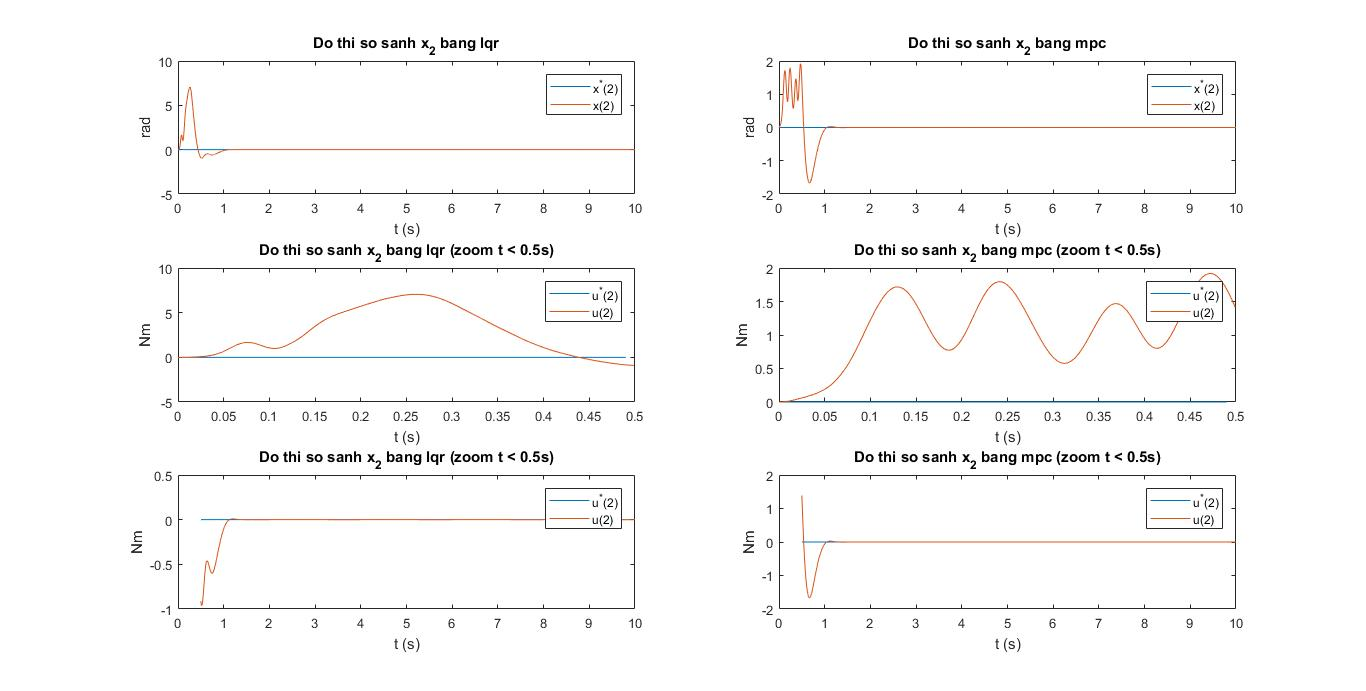
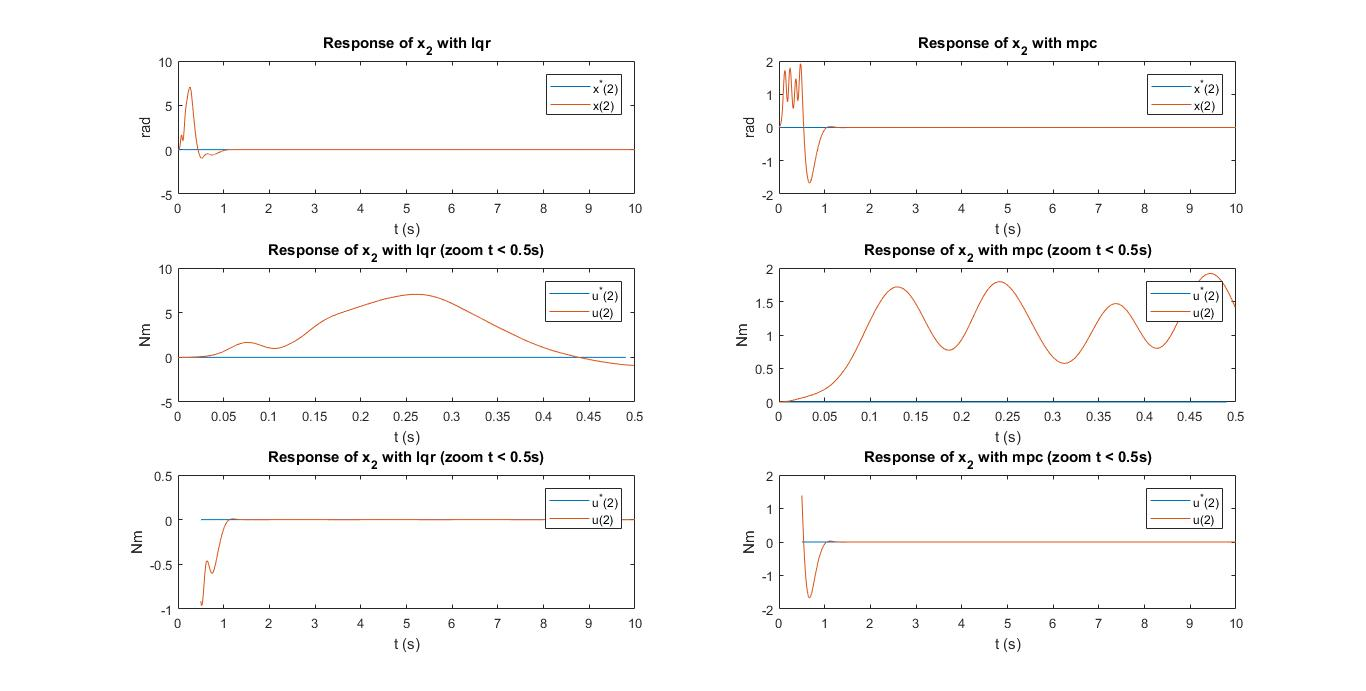
Change plot function to English

diff --git a/main.m b/main.m
@@ -455,14 +455,14 @@ for p=1:2*n
     legend(['x^*(',char(p+48),')'],['x(',char(p+48),')'])
     xlabel('t (s)')
     ylabel('rad')
-    title(['Do thi so sanh x_',char(p+48),' bang lqr'])
+    title(['Response of x_',char(p+48),' with lqr'])
 
     subplot(3,2,2)
     plot(ts,xs(p,:),t,x_mpc(p,:))
     legend(['x^*(',char(p+48),')'],['x(',char(p+48),')'])
     xlabel('t (s)')
     ylabel('rad')
-    title(['Do thi so sanh x_',char(p+48),' bang mpc'])
+    title(['Response of x_',char(p+48),' with mpc'])
       
     % zoom in t = 0 -> 0.5 (s)
     subplot(3,2,3)
@@ -470,14 +470,14 @@ for p=1:2*n
     legend(['u^*(',char(p+48),')'],['u(',char(p+48),')'])
     xlabel('t (s)')
     ylabel('Nm')
-    title(['Do thi so sanh x_',char(p+48),' bang lqr',' (zoom t < 0.5s)'])
+    title(['Response of x_',char(p+48),' with lqr',' (zoom t < 0.5s)'])
 
     subplot(3,2,4)
     plot(ts(1:50),xs(p,1:50),t(1:500),x_mpc(p,1:500))
     legend(['u^*(',char(p+48),')'],['u(',char(p+48),')'])
     xlabel('t (s)')
     ylabel('Nm')
-    title(['Do thi so sanh x_',char(p+48),' bang mpc',' (zoom t < 0.5s)'])   
+    title(['Response of x_',char(p+48),' with mpc',' (zoom t < 0.5s)'])   
     
     % zoom in t = 0.5 -> 10 (s)
     subplot(3,2,5)
@@ -485,14 +485,14 @@ for p=1:2*n
     legend(['u^*(',char(p+48),')'],['u(',char(p+48),')'])
     xlabel('t (s)')
     ylabel('Nm')
-    title(['Do thi so sanh x_',char(p+48),' bang lqr',' (zoom t < 0.5s)'])
+    title(['Response of x_',char(p+48),' with lqr',' (zoom t < 0.5s)'])
 
     subplot(3,2,6)
     plot(ts(51:end),xs(p,51:end),t(501:end),x_mpc(p,501:end))
     legend(['u^*(',char(p+48),')'],['u(',char(p+48),')'])
     xlabel('t (s)')
     ylabel('Nm')
-    title(['Do thi so sanh x_',char(p+48),' bang mpc',' (zoom t < 0.5s)'])     
+    title(['Response of x_',char(p+48),' with mpc',' (zoom t < 0.5s)'])     
 end
 % plot u
 for p=1:n
@@ -502,14 +502,14 @@ for p=1:n
     legend(['u^*(',char(p+48),')'],['u(',char(p+48),')'])
     xlabel('t (s)')
     ylabel('Nm')
-    title(['Do thi so sanh u_',char(p+48),' bang lqr'])
+    title(['Response of u_',char(p+48),' with lqr'])
 
     subplot(3,2,2)
     plot(ts,us(p,:),t(1:end-1),u_mpc(p,:))
     legend(['u^*(',char(p+48),')'],['u(',char(p+48),')'])
     xlabel('t (s)')
     ylabel('Nm')
-    title(['Do thi so sanh u_',char(p+48),' bang mpc'])
+    title(['Response of u_',char(p+48),' with mpc'])
     
     % zoom in t = 0 -> 0.5 (s)
     subplot(3,2,3)
@@ -517,14 +517,14 @@ for p=1:n
     legend(['u^*(',char(p+48),')'],['u(',char(p+48),')'])
     xlabel('t (s)')
     ylabel('Nm')
-    title(['Do thi so sanh u_',char(p+48),' bang lqr',' (zoom t < 0.5s)'])
+    title(['Response of u_',char(p+48),' with lqr',' (zoom t < 0.5s)'])
 
     subplot(3,2,4)
     plot(ts(1:50),us(p,1:50),t(1:500),u_mpc(p,1:500))
     legend(['u^*(',char(p+48),')'],['u(',char(p+48),')'])
     xlabel('t (s)')
     ylabel('Nm')
-    title(['Do thi so sanh u_',char(p+48),' bang mpc',' (zoom t < 0.5s)'])  
+    title(['Response of u_',char(p+48),' with mpc',' (zoom t < 0.5s)'])  
     
     % zoom in t = 0.5 -> 10 (s)
     subplot(3,2,5)
@@ -532,14 +532,14 @@ for p=1:n
     legend(['u^*(',char(p+48),')'],['u(',char(p+48),')'])
     xlabel('t (s)')
     ylabel('Nm')
-    title(['Do thi so sanh u_',char(p+48),' bang lqr',' (zoom t < 0.5s)'])
+    title(['Response of u_',char(p+48),' with lqr',' (zoom t < 0.5s)'])
 
     subplot(3,2,6)
     plot(ts(51:end),us(p,51:end),t(501:end-1),u_mpc(p,501:end))
     legend(['u^*(',char(p+48),')'],['u(',char(p+48),')'])
     xlabel('t (s)')
     ylabel('Nm')
-    title(['Do thi so sanh u_',char(p+48),' bang mpc',' (zoom t < 0.5s)'])    
+    title(['Response of u_',char(p+48),' with mpc',' (zoom t < 0.5s)'])    
 end
 
 end
